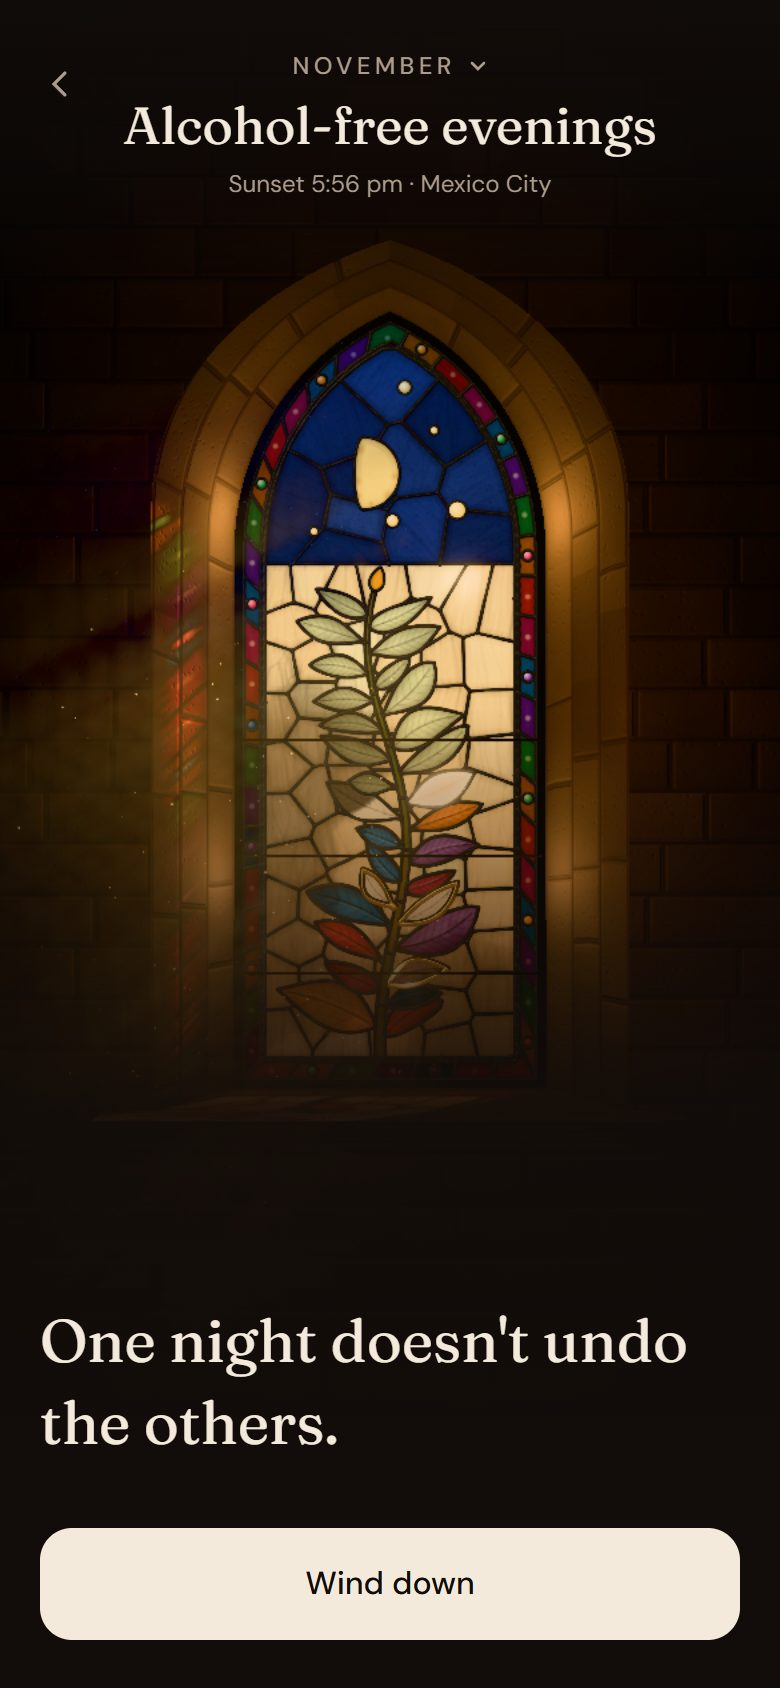
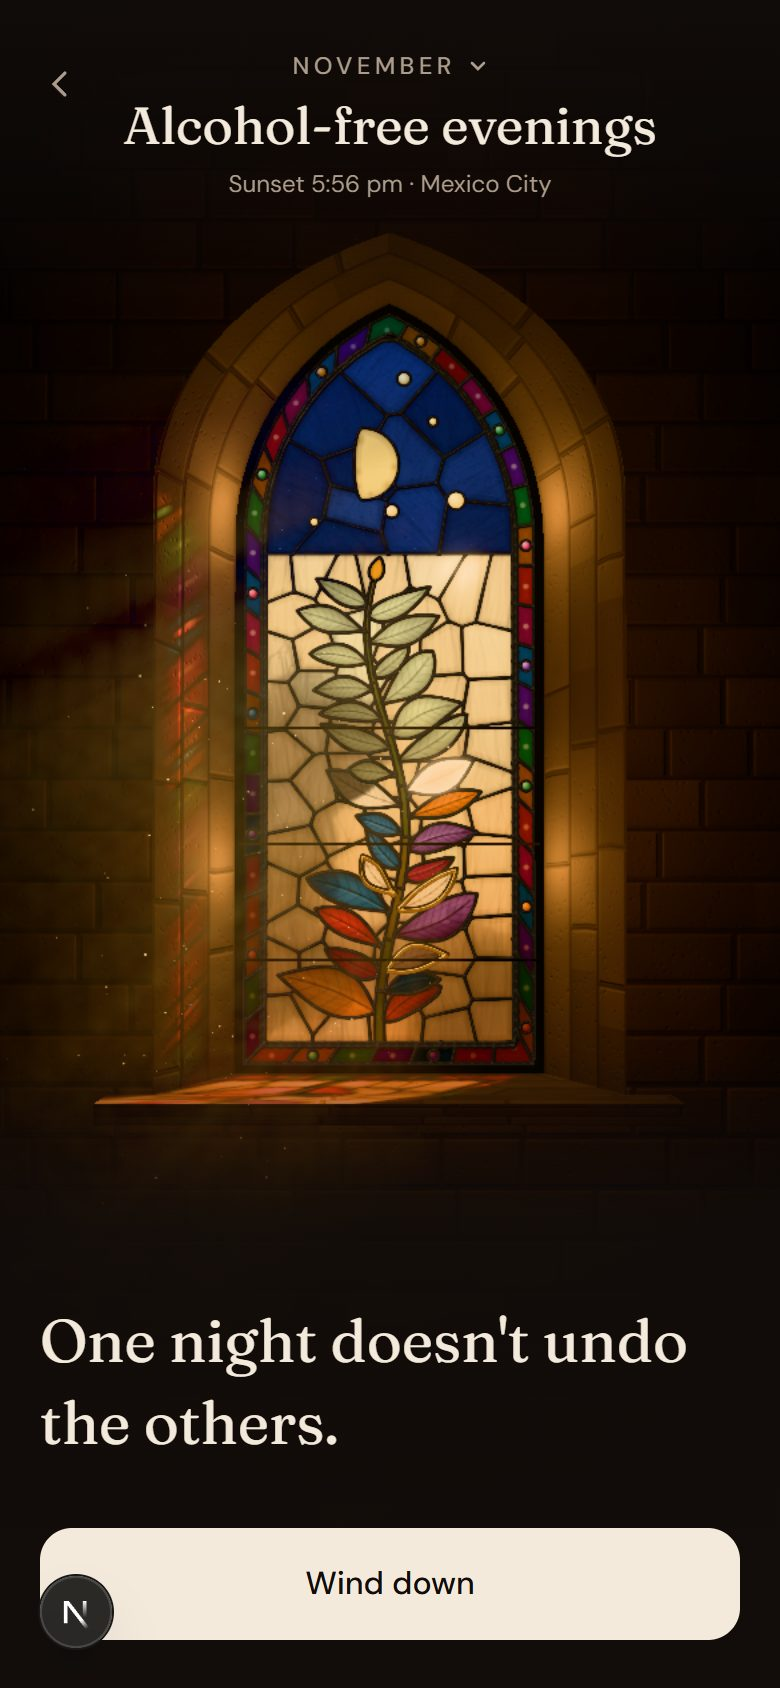
After a drink the view really pulls back to the month, and nothing covers the leaves
During the question the camera moves in to tonight's leaf under the dimming; after 'I had a
drink' it pulls back slowly to the whole window as the dimming lifts, and the line arrives once
it has. The window takes the room the card leaves, and the dark under the words no longer
covers the colored leaves at the bottom of the vine. The camera now eases its framing too, so
the window grows smoothly instead of jumping.

diff --git a/components/Moment.tsx b/components/Moment.tsx
@@ -17,6 +17,11 @@ import { useSky } from "@/lib/sky";
 import { forgetNight, saveNight, useSavedNight } from "@/lib/tonight";
 import { nightLooks } from "@/lib/window-model";
 
+type Phase = "ask" | "held" | "wind";
+
+/** How much of the screen the words take after "I had a drink": the window gets the rest. */
+const HELD_WORDS = 290;
+
 // The 3D window (three.js and its effects, most of the page's code) loads on its own, after the
 // screen around it already responds; it fades in when it's ready.
 const WindowScene = dynamic(() => import("@/components/WindowScene"), { ssr: false });
@@ -71,8 +76,10 @@ export default function Moment({ initial }: { initial: DailyGoal }) {
   // The open night in the shown month; 0 is none (a past month just opened shows the whole window).
   const [selected, setSelected] = useState(today);
   const [ritual, setRitual] = useState(false);
-  // During the check-in, the window can show through (after "I had a drink").
-  const [revealed, setRevealed] = useState(false);
+  // Where the check-in is, for the window behind it: the question (the view moves in to tonight's
+  // leaf, under the dimming), after "I had a drink" (the dimming lifts and the view pulls back to the
+  // whole month), or the wind-down itself (the window rests, not drawn).
+  const [phase, setPhase] = useState<Phase>("ask");
   // After an alcohol-free night is set: the clear night it mended, while the view goes to it.
   const [mending, setMending] = useState<number | null>(null);
   // ...and until its gold is soldered, the row of nights still shows it clear.
@@ -115,7 +122,6 @@ export default function Moment({ initial }: { initial: DailyGoal }) {
     saveNight(night);
     setSelected(today);
     setRitual(false);
-    setRevealed(false);
     if (drank) return;
     setSettling(true);
     const latest = mends.at(-1);
@@ -133,7 +139,15 @@ export default function Moment({ initial }: { initial: DailyGoal }) {
   }
 
   /** The night the window brings forward: a past night that's open, tonight's leaf as it's set, or the night it mended. */
-  const spotlight = viewing ? selected || null : (mending ?? (selected !== today ? selected : settling ? today : null));
+  const spotlight = viewing
+    ? selected || null
+    : ritual
+      ? phase === "ask"
+        ? today
+        : null
+      : (mending ?? (selected !== today ? selected : settling ? today : null));
+  // After "I had a drink" the window takes the room the card leaves, above the words.
+  const held = ritual && phase === "held";
 
   return (
     <main className="relative h-dvh w-full overflow-hidden">
@@ -143,8 +157,9 @@ export default function Moment({ initial }: { initial: DailyGoal }) {
         selected={(mending ?? selected) || undefined}
         spotlight={spotlight}
         onSelect={select}
-        insets={insets}
-        paused={ritual && !revealed}
+        insets={held ? { top: insets.top, bottom: HELD_WORDS } : insets}
+        paused={ritual && phase === "wind"}
+        slow={held}
         // A past month keeps its own moon; the weather is tonight's, wherever you look.
         sky={viewing ? { weather: sky.weather } : sky}
       />
@@ -180,7 +195,10 @@ export default function Moment({ initial }: { initial: DailyGoal }) {
                 key={`${shown.month}-${selected}-${shown.nights.length}`}
                 goal={shown}
                 day={selected}
-                onBegin={() => setRitual(true)}
+                onBegin={() => {
+                  setPhase("ask");
+                  setRitual(true);
+                }}
                 onBack={() => open(goal.month)}
               />
             ) : (
@@ -210,17 +228,7 @@ export default function Moment({ initial }: { initial: DailyGoal }) {
         </section>
       </div>
 
-      {ritual && (
-        <Ritual
-          goal={goal}
-          onClose={() => {
-            setRitual(false);
-            setRevealed(false);
-          }}
-          onReveal={setRevealed}
-          onDone={checkIn}
-        />
-      )}
+      {ritual && <Ritual goal={goal} onClose={() => setRitual(false)} onPhase={setPhase} onDone={checkIn} />}
       {windows && <Windows goal={goal} shown={shown.month} onOpen={open} onClose={() => setWindows(false)} />}
     </main>
   );

diff --git a/components/Ritual.tsx b/components/Ritual.tsx
@@ -19,14 +19,14 @@ type Step = 0 | 1 | 2 | 3;
 type Props = {
   goal: DailyGoal;
   onClose: () => void;
-  /** The window shows through while the person looks at it (after "I had a drink"). */
-  onReveal: (shown: boolean) => void;
+  /** Where the check-in is, for the window behind it: the question, after a drink, or the wind-down. */
+  onPhase: (phase: "ask" | "held" | "wind") => void;
   onDone: (night: { weight: Weight; note: string; line: LineKind; drank: boolean }) => void;
 };
 
 const BREATHS = { breaths: 3, inhale: 4, exhale: 6 };
 
-export default function Ritual({ goal, onClose, onReveal, onDone }: Props) {
+export default function Ritual({ goal, onClose, onPhase, onDone }: Props) {
   const [step, setStep] = useState<Step>(0);
   const [drank, setDrank] = useState(false);
   const [held, setHeld] = useState(false);
@@ -37,12 +37,15 @@ export default function Ritual({ goal, onClose, onReveal, onDone }: Props) {
 
   const hold = (on: boolean) => {
     setHeld(on);
-    onReveal(on);
+    onPhase(on ? "held" : "ask");
   };
   const back = () => {
     if (held) hold(false);
     else if (step === 0) onClose();
-    else setStep((s) => (s - 1) as Step);
+    else {
+      if (step === 1) onPhase("ask");
+      setStep((s) => (s - 1) as Step);
+    }
   };
   const first = step === 0 && !held;
 
@@ -58,7 +61,7 @@ export default function Ritual({ goal, onClose, onReveal, onDone }: Props) {
       {/* While the window shows through, the night still covers the bottom, where the words sit. */}
       <div
         aria-hidden
-        className={`pointer-events-none absolute inset-0 bg-[linear-gradient(to_top,var(--color-night)_0%,rgb(18_13_10/0.94)_34%,transparent_58%)] transition-opacity duration-1000 ${held ? "opacity-100" : "opacity-0"}`}
+        className={`pointer-events-none absolute inset-0 bg-[linear-gradient(to_top,var(--color-night)_0px,rgb(18_13_10/0.92)_230px,transparent_320px)] transition-opacity duration-1000 ${held ? "opacity-100" : "opacity-0"}`}
       />
       <div className="relative mx-auto flex h-full max-w-[430px] flex-col px-5 pt-[max(1.5rem,env(safe-area-inset-top))] pb-[max(1.5rem,env(safe-area-inset-bottom))]">
         <div className="flex items-center justify-between">
@@ -82,15 +85,16 @@ export default function Ritual({ goal, onClose, onReveal, onDone }: Props) {
         {held ? (
           // The night someone had a drink: the month they've built, still there, and one true line.
           <section key="held" className="flex flex-1 flex-col justify-end">
-            <p className="animate-rise font-display text-[30px] leading-snug text-ink [animation-delay:0.9s] [animation-duration:1.2s] [animation-fill-mode:both]">
+            <p className="animate-rise font-display text-[30px] leading-snug text-ink [animation-delay:2.3s] [animation-duration:1.4s] [animation-fill-mode:both]">
               One night doesn&apos;t undo the others.
             </p>
             <button
               onClick={() => {
-                hold(false);
+                setHeld(false);
+                onPhase("wind");
                 setStep(1);
               }}
-              className="btn-primary mt-8 animate-fade [animation-delay:2.2s] [animation-duration:0.8s] [animation-fill-mode:both]"
+              className="btn-primary mt-8 animate-fade [animation-delay:3.5s] [animation-duration:0.8s] [animation-fill-mode:both]"
             >
               Wind down
             </button>
@@ -104,6 +108,7 @@ export default function Ritual({ goal, onClose, onReveal, onDone }: Props) {
                 onClick={() => {
                   setDrank(false);
                   setLine(firstQuestion(goal, false));
+                  onPhase("wind");
                   setStep(1);
                 }}
                 className="btn-quiet"

diff --git a/components/WindowScene.tsx b/components/WindowScene.tsx
@@ -54,9 +54,10 @@ type SceneProps = {
   insets: Insets;
   lite: boolean;
   weather?: Sky["weather"];
+  slow?: boolean;
 };
 
-function Scene({ model, selected, spotlight, onSelect, insets, lite, onCompiled, weather }: SceneProps) {
+function Scene({ model, selected, spotlight, onSelect, insets, lite, onCompiled, weather, slow }: SceneProps) {
   const { textures, paneAt } = useWindowTextures(model);
   const sun = useSun(model, textures);
   const still = useMedia("(prefers-reduced-motion: reduce)");
@@ -69,7 +70,7 @@ function Scene({ model, selected, spotlight, onSelect, insets, lite, onCompiled,
   return (
     <>
       <color attach="background" args={["#0b0806"]} />
-      <Rig model={model} insets={insets} focus={focus} still={still} />
+      <Rig model={model} insets={insets} focus={focus} still={still} slow={slow} />
       <FirstFrame />
       <hemisphereLight args={["#6a4c38", "#0a0604", 0.5]} />
       {/* The glow of the glass, lighting the stone around it from inside the opening. */}
@@ -85,7 +86,16 @@ function Scene({ model, selected, spotlight, onSelect, insets, lite, onCompiled,
       <primitive object={sun.light} />
       <primitive object={sun.light.target} />
       <Wall model={model} stoneSize={lite ? STONE_LITE : STONE_FULL} />
-      <Glass model={model} textures={textures} paneAt={paneAt} selected={selected} spotlight={Boolean(spotlight)} still={still} weather={weather} onSelect={onSelect} />
+      <Glass
+        model={model}
+        textures={textures}
+        paneAt={paneAt}
+        selected={selected}
+        spotlight={Boolean(spotlight)}
+        still={still}
+        weather={weather}
+        onSelect={onSelect}
+      />
       <Bars model={model} />
       <Air sun={sun} model={model} slices={lite ? 14 : 26} clouds={weather?.clouds ?? 0} />
       <Dust sun={sun} model={model} />
@@ -159,6 +169,7 @@ export default function WindowScene({
   insets = { top: 0, bottom: 0 },
   paused = false,
   sky = {},
+  slow = false,
 }: {
   goal: DailyGoal;
   label: string;
@@ -172,6 +183,8 @@ export default function WindowScene({
   paused?: boolean;
   /** Tonight's real sky (lib/sky): the moon's phase, and the weather on the glass. */
   sky?: Sky;
+  /** Move the view slowly (the pull back to the whole month after a drink). */
+  slow?: boolean;
 }) {
   const lite = useLite();
   const [model, setModel] = useState<WindowModel | null>(null);
@@ -205,7 +218,17 @@ export default function WindowScene({
               gl.debug.checkShaderErrors = process.env.NODE_ENV !== "production";
             }}
           >
-            <Scene model={model} selected={selected} spotlight={spotlight} onSelect={onSelect} insets={insets} lite={lite} onCompiled={reveal} weather={sky.weather} />
+            <Scene
+              model={model}
+              selected={selected}
+              spotlight={spotlight}
+              onSelect={onSelect}
+              insets={insets}
+              lite={lite}
+              onCompiled={reveal}
+              weather={sky.weather}
+              slow={slow}
+            />
             {lite && drawing && <Pace fps={30} />}
             {drawing && <Adapt frameMs={lite ? 1000 / 30 : 1000 / 60} />}
           </Canvas>

diff --git a/components/window/frame.tsx b/components/window/frame.tsx
@@ -19,9 +19,9 @@ export const ZOOM = 2.1;
  * Framing: the window (arch to ledge) as big as fits between the text above and the card below.
  * With a past night open, the view glides in to its leaf and centers it there instead.
  */
-export function Rig({ model, insets, focus, still }: { model: WindowModel; insets: Insets; focus: Pt | null; still: boolean }) {
+export function Rig({ model, insets, focus, still, slow = false }: { model: WindowModel; insets: Insets; focus: Pt | null; still: boolean; slow?: boolean }) {
   const size = useThree((s) => s.size);
-  const view = useRef<{ x: number; y: number; zoom: number } | null>(null);
+  const view = useRef<{ x: number; y: number; zoom: number; fit: number; middle: number } | null>(null);
   useFrame(({ camera }, delta) => {
     const cam = camera as THREE.PerspectiveCamera;
     const tan = Math.tan(THREE.MathUtils.degToRad(cam.fov / 2));
@@ -34,17 +34,22 @@ export function Rig({ model, insets, focus, still }: { model: WindowModel; inset
     const free = Math.max(size.height - insets.top - insets.bottom, size.height * 0.4);
     // Pixels per scene unit: fill the free band, unless the width runs out first.
     const fit = Math.min((free * 0.96) / contentH, (size.width * 0.94) / contentW);
-    // Where to look and how close: the whole window, or the open night's leaf.
-    const target = focus ? { x: focus[0], y: focus[1], zoom: ZOOM } : { x: 0, y: (above - below) / 2, zoom: 1 };
+    // Where to look and how close: the whole window, or the open night's leaf. The free band
+    // eases too, so the window grows or shrinks smoothly when the UI around it changes.
+    const middle = insets.top + free / 2;
+    const target = focus ? { x: focus[0], y: focus[1], zoom: ZOOM, fit, middle } : { x: 0, y: (above - below) / 2, zoom: 1, fit, middle };
     const v = view.current ?? (view.current = { ...target });
-    const ease = still ? 1 : 1 - Math.exp(-delta * 3);
+    // Slow: the long pull back to the whole month after a drink, seen as the dimming lifts.
+    const ease = still ? 1 : 1 - Math.exp(-delta * (slow ? 0.85 : 3));
     v.x += (target.x - v.x) * ease;
     v.y += (target.y - v.y) * ease;
     v.zoom += (target.zoom - v.zoom) * ease;
-    const k = fit * v.zoom;
+    v.fit += (target.fit - v.fit) * ease;
+    v.middle += (target.middle - v.middle) * ease;
+    const k = v.fit * v.zoom;
     const distance = size.height / k / (2 * tan);
     // Put that point on the free band's middle.
-    const offset = (size.height / 2 - (insets.top + free / 2)) / k;
+    const offset = (size.height / 2 - v.middle) / k;
     const look = v.y - offset;
     const tilt = 0.5 / v.zoom;
     if (Math.abs(cam.position.z - distance) > 1e-4 || Math.abs(cam.position.y - (look - tilt)) > 1e-4 || Math.abs(cam.position.x - v.x) > 1e-4) {
